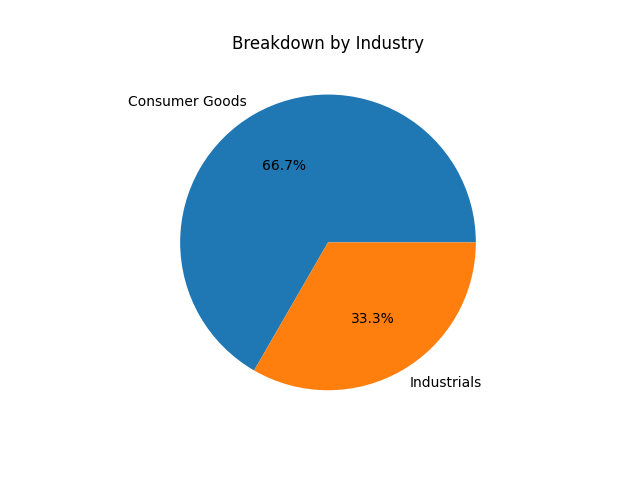
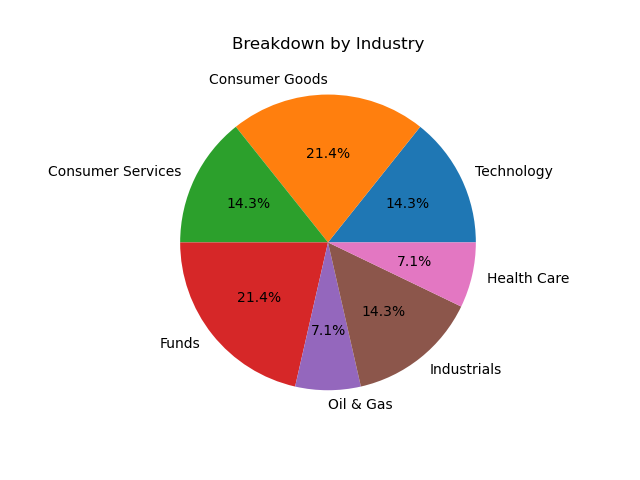
rishi

diff --git a/br_api_tests.py b/br_api_tests.py
@@ -2,12 +2,21 @@
 
 import requests, json
 import pandas as pd
+from initPortfolio import Portfolio
 
-portfolioAnalysis_data = 'https://www.blackrock.com/tools/hackathon/portfolio-analysis?calculateExpectedReturns=true& \
-    calculateExposures=true&calculatePerformance=true&calculateRisk=true&includeChartData=true&positions=AAPL~150%7CTSLA~50&returnAllDates=false'
-api = requests.get(portfolioAnalysis_data).json()
 
-data = api['resultMap']['PORTFOLIOS'][0]['portfolios'][0]
+# portfolioAnalysis_data = 'https://www.blackrock.com/tools/hackathon/portfolio-analysis?calculateExpectedReturns=true& \
+#     calculateExposures=true&calculatePerformance=true&calculateRisk=true&includeChartData=true&positions=AAPL~150%7CTSLA~50&returnAllDates=false'
+# api = requests.get(portfolioAnalysis_data).json()
+
+
+# data = api['resultMap']['PORTFOLIOS'][0]['portfolios'][0]
+port = Portfolio(holdings={"ABM": 200, "TSLA": 400, "KO": 76, "GE": 58, "GM": 79,
+                    "AAPL": 200, "NCR" : 350, "NOK": 21, "QSR" : 240, "T" : 58,
+                    "TAK" : 79, "SPY": 721, "DIA": 270, "FNCL": 32, "F":90,
+                    "MMM" : 78, "HON" : 92, "UPS": 68, "UHS": 78, "V": 200, "BLL": 53,
+                    "KI": 520, "M": 63, "TAP": 46, "MNST": 79, "NOV": 10})
+data = port.portAnalCleaned
 daily = data['returns']['returnsMap']
 lastDay = sorted(daily.items())
 
@@ -87,7 +96,10 @@ def get_levels(holdings, retNumHoldings=True):
     levels = {}
     securities = perfData['resultMap']['RETURNS']
     for security in securities:
-        levels[security['ticker']] = security['latestPerf']['level']
+        try:
+            levels[security['ticker']] = security['latestPerf']['level']
+        except KeyError:
+            levels[security['uniqueId']] = security['latestPerf']['level']
 
     if retNumHoldings:
         return levels, numHoldings
@@ -188,5 +200,4 @@ def get_both():
     return [get_rank(), get_sector_rank()]
 
 if __name__ == '__main__':
-    # get_sector_rank()
-    print(get_rank())
+    print(get_both())

diff --git a/demo.py b/demo.py
@@ -1,26 +1,38 @@
-import plots
-import securitySearch
-import suggestions
-import br_api_tests
-import marketSearch
-import dialogflow
+# import plots
+# import securitySearch
+# import suggestions
+# import br_api_tests
+# import marketSearch
+# import dialogflow
 from initPortfolio import Portfolio
 
-p1 = Portfolio({"ABM": 200, "TSLA": 400, "KO": 76, "GE": 58, "GM": 79,
-                "AAPL": 200, "NCR" : 350, "NOK": 21, "QSR" : 240, "T" : 58,
-                "TAK" : 79, "SPY": 721, "DIA": 270, "FNCL": 32, "F":90,
-                "MMM" : 78, "HON" : 92, "UPS": 68, "UHS": 78, "V": 200, "BLL": 53,
-                "KI": 520, "M": 63, "TAP": 46, "MNST": 79, "NOV": 10})
-print(p1.plots.tablePortfolio())
-p1.plots.assetTypes()
-p1.plots.assetTypes()
-p1.plots.industries()
-p1.plots.sectors()
-p1.plots.levels()
-print(p1.plots.portfolioSpecificData("TSLA"))
+class DemoPortfolio:
 
-p1.securitySearch.drawTickerPlots("AAPL")
-p1.securitySearch.drawSectorPlots("Information Technology")
+    @staticmethod
+    def getP1():
+        p1 = Portfolio(holdings={"ABM": 200, "TSLA": 400, "KO": 76, "GE": 58, "GM": 79,
+                    "AAPL": 200, "NCR" : 350, "NOK": 21, "QSR" : 240, "T" : 58,
+                    "TAK" : 79, "SPY": 721, "DIA": 270, "FNCL": 32, "F":90,
+                    "MMM" : 78, "HON" : 92, "UPS": 68, "UHS": 78, "V": 200, "BLL": 53,
+                    "KI": 520, "M": 63, "TAP": 46, "MNST": 79, "NOV": 10})
 
 
+    @staticmethod
+    def getRandomHolding():
+        import random
+        return random.choice(list(getP1().holdings.keys()))
 
+
+if __name__ == '__main__':
+    DemoPortfolio.getP1()
+    DemoPortfolio.getRandomHolding()
+    # print(plots.tablePortfolio())
+    # plots.assetTypes()
+    # plots.assetTypes()
+    # plots.industries()
+    # plots.sectors()
+    # plots.levels()
+    # print(plots.portfolioSpecificData("TSLA"))
+
+    # securitySearch.drawTickerPlots("AAPL")
+    # securitySearch.drawSectorPlots("Information Technology")

diff --git a/securitySearch.py b/securitySearch.py
@@ -12,7 +12,12 @@ key = "STHA8AW4L2LOMCWT"
 ticker = ""
 
 def initializeTicker(tick):
-    p1 = Portfolio({"KO": 200, "REV": 259, "GM": 237})
+    # p1 = Portfolio({"KO": 200, "REV": 259, "GM": 237})
+    p1 = Portfolio(holdings={"ABM": 200, "TSLA": 400, "KO": 76, "GE": 58, "GM": 79,
+                    "AAPL": 200, "NCR" : 350, "NOK": 21, "QSR" : 240, "T" : 58,
+                    "TAK" : 79, "SPY": 721, "DIA": 270, "FNCL": 32, "F":90,
+                    "MMM" : 78, "HON" : 92, "UPS": 68, "UHS": 78, "V": 200, "BLL": 53,
+                    "KI": 520, "M": 63, "TAP": 46, "MNST": 79, "NOV": 10})
     data = p1.perfDataCleaned
     #performance_data = 'https://www.blackrock.com/tools/hackathon/performance?datesAsStrings=true&identifiers={}'.format(ticker)
     #api = requests.get(performance_data).json()
@@ -122,8 +127,16 @@ def drawTickerPlots(ticker):
     plt.ylabel("SHARE PRICE ($)")
 
     plt.savefig("Images/searchedTicker.png")  # saves plot in particular location
+    plt.show()
 
 # Main for testing
 if __name__ == '__main__':
-    drawTickerPlots("AAPL")
+    import random
+    p1 = Portfolio(holdings={"ABM": 200, "TSLA": 400, "KO": 76, "GE": 58, "GM": 79,
+                    "AAPL": 200, "NCR" : 350, "NOK": 21, "QSR" : 240, "T" : 58,
+                    "TAK" : 79, "SPY": 721, "DIA": 270, "FNCL": 32, "F":90,
+                    "MMM" : 78, "HON" : 92, "UPS": 68, "UHS": 78, "V": 200, "BLL": 53,
+                    "KI": 520, "M": 63, "TAP": 46, "MNST": 79, "NOV": 10})
+    drawTickerPlots(random.choice(list(p1.holdings.keys())))
+    drawSectorPlots('Information Technology')
     # drawSectorPlots('Information Technology')

diff --git a/plots.py b/plots.py
@@ -13,7 +13,11 @@ key = "STHA8AW4L2LOMCWT"
 """
 adict is a dictionary of the users portfolio
 """
-p1 = Portfolio({"ABM": 200, "TSLA": 400, "KO": 76})
+# p1 = Portfolio({"ABM": 200, "TSLA": 400, "KO": 76})
+p1 = Portfolio(holdings={"ABM": 200, "TSLA": 400, "KO": 76, "GE": 58, "GM": 79,
+                    "AAPL": 200, "NCR" : 350, "NOK": 21, "QSR" : 240, "T" : 58,
+                    "TAK" : 79, "SPY": 721, "DIA": 270, "FNCL": 32, "F":90,
+                    "MMM" : 78, "M": 63, "TAP": 46, "MNST": 79, "NOV": 10})
 bigData = p1.portAnalCleaned
 #response = requests.get('https://www.blackrock.com/tools/hackathon/portfolio-analysis?calculateExpectedReturns=true&\
     #calculateExposures=true&calculatePerformance=true&calculateRisk=true&includeChartData=true&positions=AAPL~150%7CTSLA~50%7CSPY~100')
@@ -158,8 +162,8 @@ def assetTypes():
 
 if __name__ == '__main__':
     print(tablePortfolio())
-    # assetTypes()
-    # industries()
-    # sectors()
-    # levels()
-    # portfolioSpecificData("TSLA")
+    assetTypes()
+    industries()
+    sectors()
+    levels()
+    portfolioSpecificData("TSLA")

diff --git a/initPortfolio.py b/initPortfolio.py
@@ -4,6 +4,7 @@ import json, requests
 
 class Portfolio:
     def __init__(self, holdings={'AAPL': 150,'TSLA': 50,'SPY': 100}, usePortAnal=True):
+        self.holdings = holdings
         portfolio_anlaysis = 'https://www.blackrock.com/tools/hackathon/portfolio-analysis?calculateExpectedReturns=true& \
             calculateExposures=true&calculatePerformance=true&calculateRisk=true&includeChartData=true&positions='
         performance_data ='https://www.blackrock.com/tools/hackathon/performance?identifiers='
@@ -57,6 +58,14 @@ class Portfolio:
 
             with open(folder+fileName, mode='w') as out:
                 json.dump(data, out)
+
+
+    def __str__():
+        return self.holdings
+
+    def __repr__():
+        return __str__()
+
 
 
 if __name__ == '__main__':

diff --git a/suggestions.py b/suggestions.py
@@ -155,4 +155,6 @@ def generateSuggestions(risk='medium', sectors=['any',]):
     return random.sample(possibleSecurities, min(len(possibleSecurities), 3))
 
 if __name__ == '__main__':
-    print(generateSuggestions(risk='high', sectors=['Telecommunication Services']))
+    # print(generateSuggestions(risk='high', sectors=['Telecommunication Services']))
+    for sector,companies in companiesPerSector().items():
+        print(f'{sector}: {companies}', end='\n\n\n')
